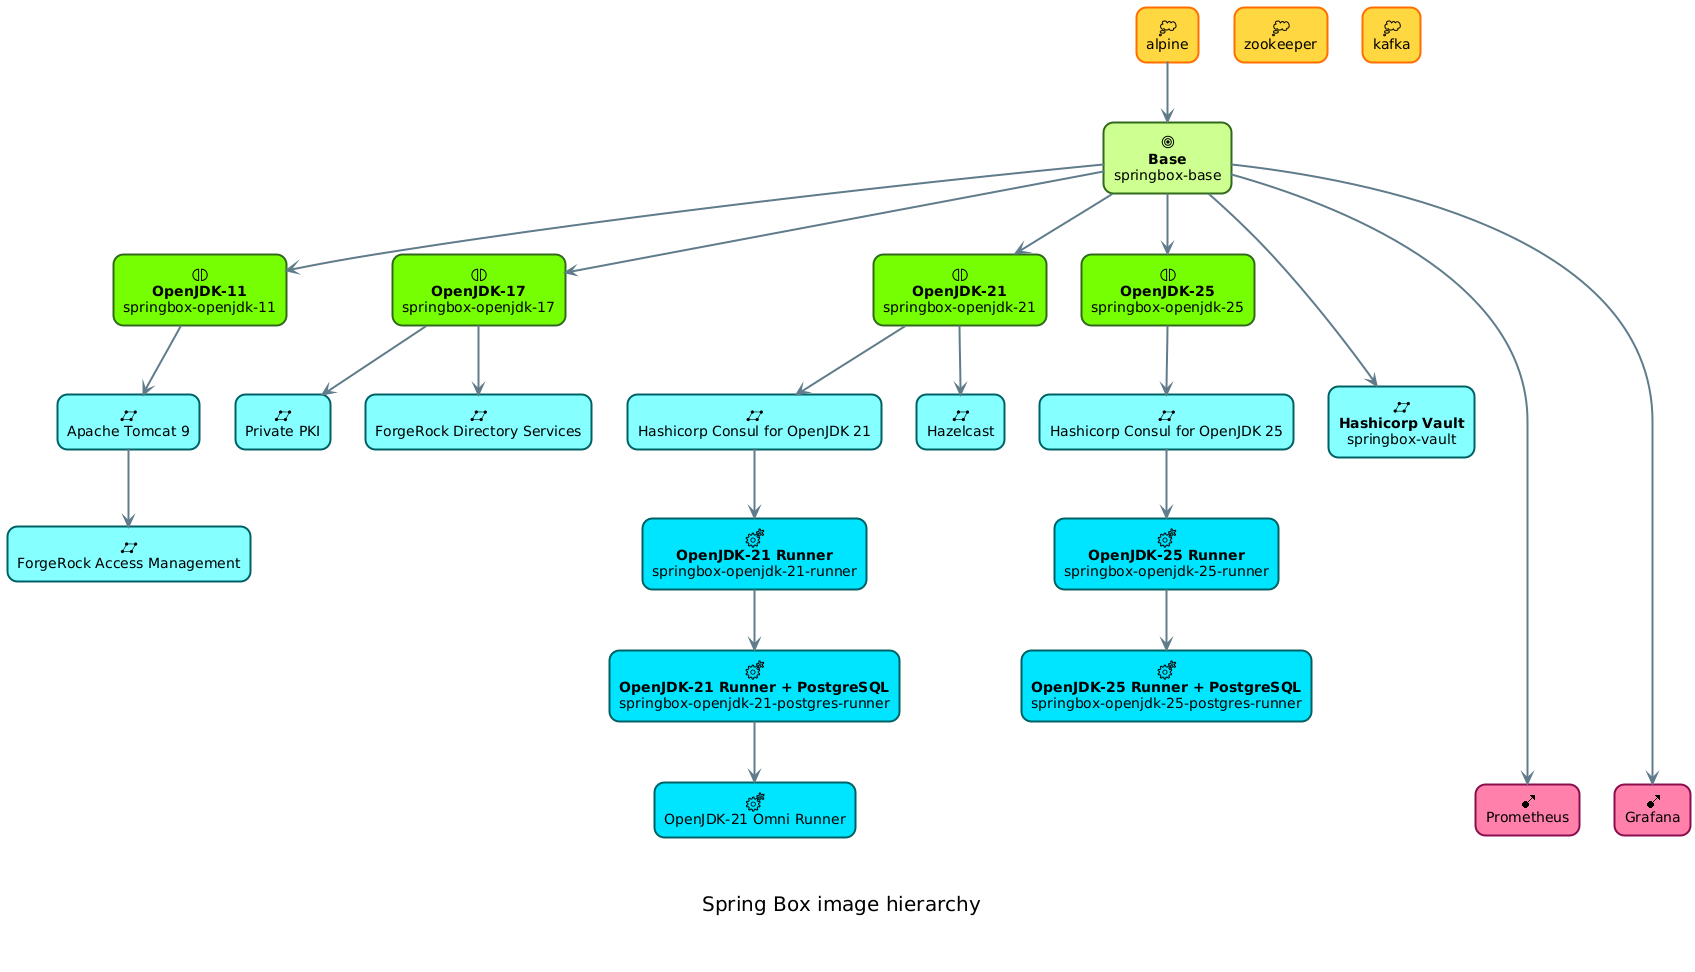
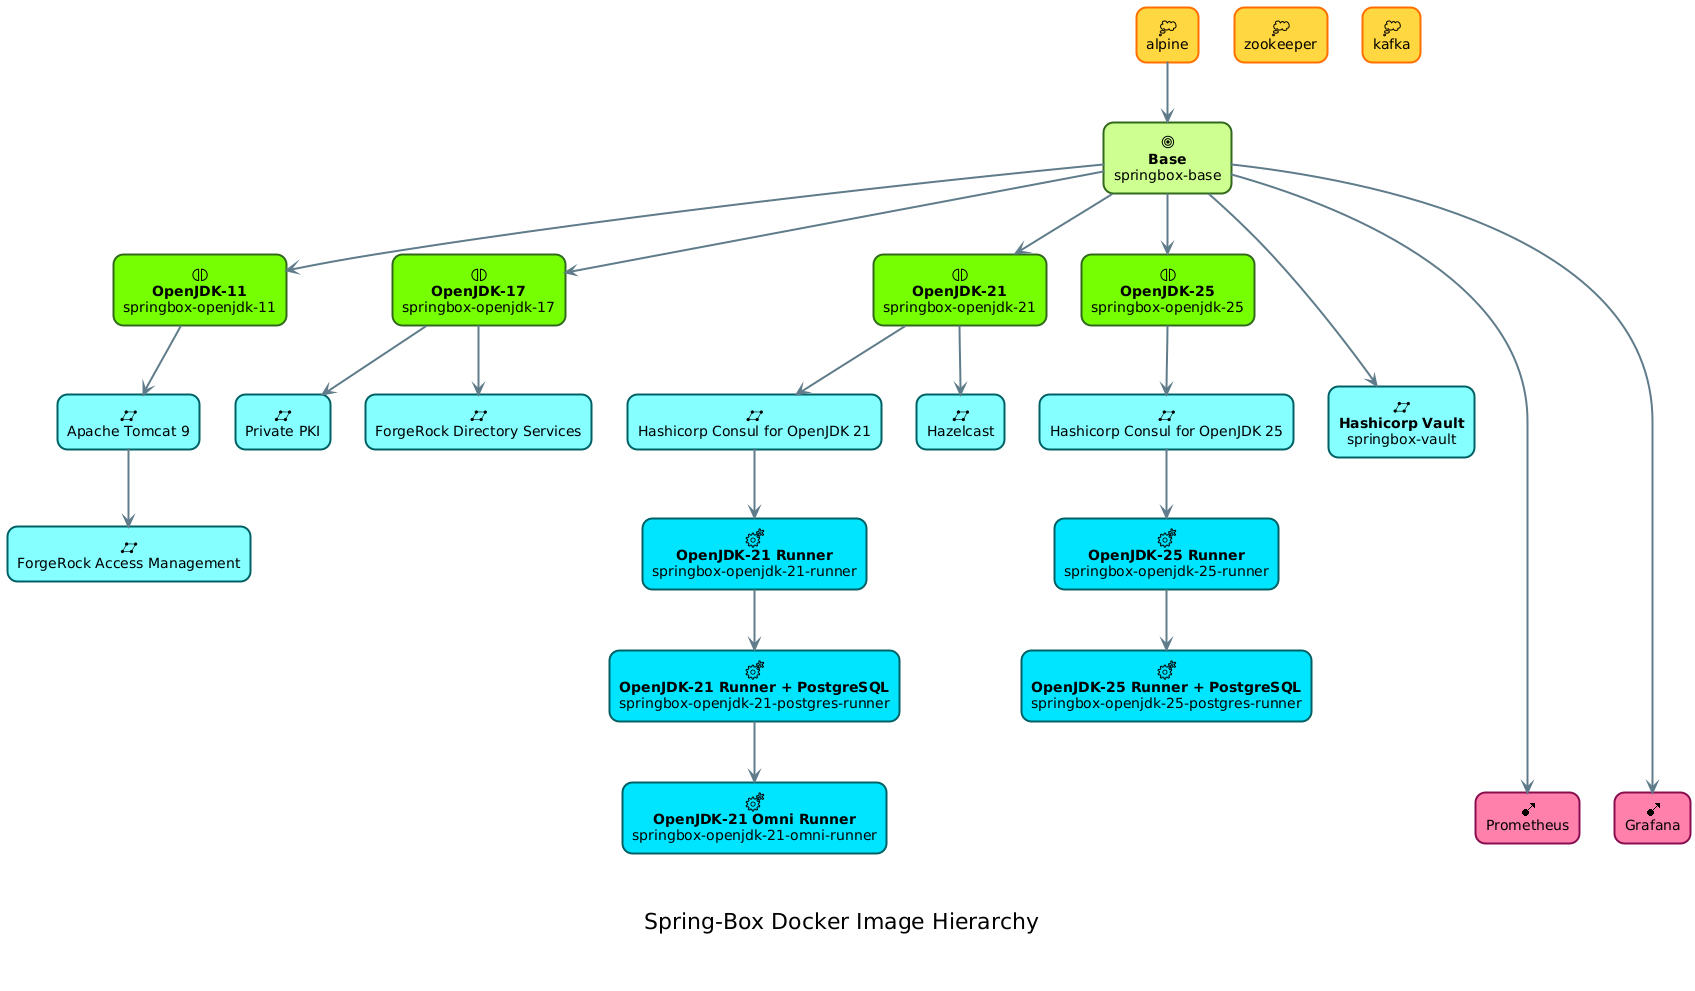
update Spring-Box documentation

diff --git a/docs/_pages/virtualization/docker/spring-box.md b/docs/_pages/virtualization/docker/spring-box.md
@@ -9,7 +9,7 @@ sidebar:
   nav: "virtualization_sidebar"
 ---
 
-## ☁ Spring Box: the ultimate Spring Boot runner
+## ☁ Spring-Box: Ultimate Spring Boot Runner
 
 ![GitHub top language](https://img.shields.io/github/languages/top/zappee/spring-box)
 ![GitHub Issues](https://img.shields.io/github/issues/zappee/spring-box)
@@ -28,10 +28,10 @@ sidebar:
 ---
 
 ### 1) Overview
-The **Remal Spring Box** is an open-source development and production platform engineered to simplify the creation, deployment, and monitoring of Java and Spring Boot applications.
+The **Remal Spring-Box** is an open-source development and production platform engineered to simplify the creation, deployment, and monitoring of Java and Spring Boot applications.
 It eliminates enterprise boilerplate by offering a fully integrated environment featuring containerized runtimes, databases supporting the database-per-service pattern, data streaming, service discovery, security, and real-time operational metrics.
 
-### 2) Context & Problem statement
+### 2) Context & Problem Statement
 Building a modern microservices architecture with Spring Boot requires stitching together dozens of complex infrastructure components:
 * Service registries
 * Load balancers
@@ -55,14 +55,14 @@ Setting this up consistently across local development and production environment
 * **Distributed state challenges:** The complexity of managing databases using the popular database-per-service pattern while keeping primary keys synchronized across isolated instances.
 * **"Works on my machine" dilemma:** Environmental gaps between team members' laptops and live clusters that turn environment debugging into a massive time sink.
 
-### 3) The Remal solution
-That’s where the **Remal Spring Box** comes in.
+### 3) The Remal Solution
+That’s where the **Remal Spring-Box** comes in.
 It bridges this gap by offering a containerized pre-configured set of _Docker_ images that act as ready-to-go building blocks for both local development and production environment.
 
 By abstracting away complex infrastructure, it cuts out configuration overhead entirely.
 This lets start-ups and small-to-medium teams to eliminate configuration overhead, stop worrying about setup, and focus on what matters most: shipping features fast.
 
-### 4) Key benefits
+### 4) Key Benefits
 * **Embedded SSH server:** Offers standard secure access to active instances. Running containers can be connected to using native SSH clients, allowing to execute standard shell commands inside the container environments seamlessly.
 * **Production-Identical local dev:** Eliminates environmental mismatches entirely. By using the exact same containerized runtime building blocks on local machines and production clusters, if it works on your laptop, it will work in production.
 * **Instant feature delivery:** Saves weeks of foundational engineering. Startups and small teams can skip the tedious process of configuring Kafka brokers, security certificates, service registries, cache solutions, etc., and start writing business logic on day one.
@@ -71,18 +71,18 @@ This lets start-ups and small-to-medium teams to eliminate configuration overhea
 * **Architecture evolution:** Designed for zero-downtime scalability. The platform’s modular nature allows you to easily scale services horizontally or vertically, or swap out infrastructure components entirely as your application traffic and business needs grow.
 * **Configuration management:** The integrated _Distributed Key-Value Registry_ acts as a single source of truth for runtime configurations, making it effortless to manage environment states and synchronize changes across all active instances.
 * **Automated load balancing:** The _Distributed Service Registry_ tracks active microservice instances codelessly, dynamically routing traffic and balancing loads across healthy containers without manual network mapping.
-* **Distributed Caching:** The built-in, cluster-wide Hazelcast-based distributed cache solution offered by _Spring Box_ simplifies the implementation of lightning-fast REST services. It can be used to maintain a persistent request context across separate instances. You can significantly reduce database load by utilizing different caching strategies. By pairing _Spring Box_ with the _Bucket4j_ library, you can easily implement robust, multi-instance, IP-based rate limiting (throttling) and circuit breakers to protect your API endpoints against DDoS attacks.
+* **Distributed Caching:** The built-in, cluster-wide Hazelcast-based distributed cache solution offered by _Spring-Box_ simplifies the implementation of lightning-fast REST services. It can be used to maintain a persistent request context across separate instances. You can significantly reduce database load by utilizing different caching strategies. By pairing _Spring-Box_ with the _Bucket4j_ library, you can easily implement robust, multi-instance, IP-based rate limiting (throttling) and circuit breakers to protect your API endpoints against DDoS attacks.
   The Hazelcast-based architecture supports three different caching mechanisms: _Embedded Cache_, _Client-Server topology_, and _Near-Cache_:
 
   ![Supported caching architectures](/assets/images/menu/virtualization/docker/spring-box/hazelcast-caching-strategies.png)
 
-### 5) Docker containers in the _Spring Box_ ecosystem
-![Spring Box image hierarchy](/assets/images/menu/virtualization/docker/spring-box/spring-box-image-hierarchy.png)
+### 5) Docker Containers in the _Spring-Box_ Ecosystem
+![Spring-Box image hierarchy](/assets/images/menu/virtualization/docker/spring-box/spring-box-image-hierarchy.png)
 
-### 6) The Base image
+### 6) The Spring-Box Base Image
 Image name: springbox-base
 
-This ultra-minimal [Base image](https://github.com/zappee/spring-box/tree/main/docker/base/base) serves as the foundation for the entire **Remal Spring Box** ecosystem.
+This ultra-minimal [Base image](https://github.com/zappee/spring-box/tree/main/docker/base/base) serves as the foundation for the entire **Remal Spring-Box** ecosystem.
 It contains only essential system utilities and bootstrap configurations.
 
 * System & Access Utilities:
@@ -96,7 +96,7 @@ It contains only essential system utilities and bootstrap configurations.
   * `docker.init` and `docker.startup` directory preparation.
 
 We keep this layer footprint as small as possible.
-This serves as the parent layer for all subsequent images in the ecosystem. Any package or file added here will cascade down the entire stack, unnecessarily increasing the final size of the production _Spring Box_ images.
+This serves as the parent layer for all subsequent images in the ecosystem. Any package or file added here will cascade down the entire stack, unnecessarily increasing the final size of the production _Spring-Box_ images.
 
 ⚠ _**Important:**_
 _Modifying this layer directly impacts every image downstream in the ecosystem._
@@ -128,13 +128,13 @@ _Please modify it with caution and only introduce changes that are globally requ
   ```
 
 #### 6.3) Container lifecycle management
-  The `/docker.init/` and `/docker.startup/` directories manage the lifecycle of all _Spring Box_ containers.
+  The `/docker.init/` and `/docker.startup/` directories manage the lifecycle of all _Spring-Box_ containers.
   Using the Linux [`run-parts` tool](https://www.unix.com/man_page/linux/8/run-parts/), the container executes initialization and startup scripts sequentially without hardcoded filenames.
   While downstream layers can easily extend container behavior by adding new scripts, place files carefully to avoid filename conflicts or accidental overrides.
   * **Initialization:** Scripts in `docker.init` directory run only _ONCE_ during the container's very first boot. They will be skipped on subsequent container restarts.
   * **Startup logic:** Scripts in `docker.startup` directory run _EVERY_ time the container starts up, including after restarts and reboots.
 
-### 7) Java core runtime images
+### 7) Java Core Runtime Images
 Image name: springbox-openjdk
 
 The platform supports production-ready runtimes for [OpenJDK 11, 17, 21, and 25](https://github.com/zappee/spring-box/tree/main/docker/core).
@@ -143,10 +143,10 @@ This Docker image layer only adds
 * OpenSSL to deal with keystores
 
 ⚠ _**Important:**_
-_These core images are designed to serve as top layers for custom builds and are not recommended for running Java applications (*.jar) directly._
+_These core images are designed to serve as top layer for custom builds and are not recommended for running Java applications (*.jar) directly._
 _To deploy and execute your Java applications, we highly recommend using our specialized [Java Runner](#8-java-runner-containers---springbox-openjdk-runner) containers._
 
-### 8) Java Runner containers
+### 8) Java Runner Images
 Image name: springbox-openjdk-runner
 
 The **Java Runner** is an optimized Docker image designed specifically for running containerized Java applications, particularly **Spring Boot** executable JAR files.
@@ -237,7 +237,7 @@ hello-service-1:
   These configuration keys are injected directly into the container's runtime environment, becoming active shell variables inside the container so that your application (such as Spring Boot) can seamlessly read them.
 
   Variables utilized by this image:
-  * **PKI_HOST** (default: pki.remal.com): Specifies the hostname of the _Private PKI Management_ container within the _Spring Box_ network.
+  * **PKI_HOST** (default: pki.remal.com): Specifies the hostname of the _Private PKI Management_ container within the _Spring-Box_ network.
   * **CONSUL_SERVER_HOSTNAME** (default: consul.remal.com): Defines the hostname of the _HashiCorp Consul_ container inside the platform.
   * **HAZELCAST_CLUSTER_NAME** (default: springbox-dev): Specifies the unique identifier for the distributed Hazelcast cluster topology. This variable allows the container to seamlessly discover, authenticate, and join the correct cluster network. When deploying multi-tenant environments or multiple independent clusters within the same infrastructure, ensure this name matches across all desired cluster members to prevent accidental node isolation or split-brain scenarios.
   * **HAZELCAST_CLUSTER_MEMBERS** (default: hazelcast-1.remal.com, hazelcast-2.remal.com): Defines a comma-separated list of IP addresses or hostnames (with optional ports) representing the cluster members used for initial discovery. The container utilizes this list to bootstrap its connection to the distributed Hazelcast network.
@@ -258,17 +258,17 @@ hello-service-1:
   The container memory limits defined here must align precisely with the internal JVM configurations.
 * **Docker volume configuration:**
   Docker volumes store persistent data outside a container’s writable disk, ensuring data remains intact even after the container is removed.
-  _Spring Box_ uses three Docker volumes to share files between the host machine and the container.
+  _Spring-Box_ uses three Docker volumes to share files between the host machine and the container.
 
-  * **/jar-to-run:** Host to container, input. The executable Java application `.jar` file must be placed in this folder to be passed into the container for execution. This folder must contain exactly one `.jar` file, as each individual Java container in the _Spring Box_ ecosystem is designed to execute a single application.
+  * **/jar-to-run:** Host to container, input. The executable Java application `.jar` file must be placed in this folder to be passed into the container for execution. This folder must contain exactly one `.jar` file, as each individual Java container in the _Spring-Box_ ecosystem is designed to execute a single application.
   - **/logs:** Container to host, output. Application and server log files generated by the active processes inside the container are streamed out the host machine via this shared folder.
   - **/heap-dump:** Container to host, output. This is the place where the JVM outputs binary memory snapshots upon a critical failure.
 
-### 9) Java runtime with PostgreSQL images
+### 9) Java Runtime with PostgreSQL Images
 Image name: springbox-openjdk-postgres-runner
 
-This image is an extends of our base [Java Runner containers](#8-java-runner-containers---springbox-openjdk-runner) layers by adding a pre-installed, and ready-to-use PostgreSQL database server on top of that image.
-While everything detailed in the _Java Runner containers_ section applies to this image as well, this image requires a few extra configuration steps to operate the embedded database engine.
+This image is an extends of our base [Java Runner images](#8-java-runner-containers---springbox-openjdk-runner) layer by adding a pre-installed, and ready-to-use PostgreSQL database server on top of that image.
+While everything detailed in the _Java Runner images_ section applies to this image as well, this image requires a few extra configuration steps to operate the embedded database engine.
 
 It is recommended to usie this image if your application requires a dedicated database and follows a _database-per-container_ or _database-per-service_ design pattern.
 
@@ -343,22 +343,27 @@ hello-service-1:
   * **DB_APP_PASSWORD** (default: password): Specifies the password used by the application layer to authenticate against the database.
 * **Docker volume configuration:**
   Docker volumes store persistent data outside a container’s writable disk, ensuring data remains intact even after the container is removed.
-  _Spring Box_ uses three Docker volumes to share files between the host machine and the container.
+  _Spring-Box_ uses three Docker volumes to share files between the host machine and the container.
 
   * **/var/lib/postgresql/data:** Maps the standard, internal directory where PostgreSQL expects to write its data, tables, and system catalogs. It guarantees your PostgreSQL data persists even if the container is stopped, deleted, or upgraded.
 
-### 10) Java Omni runtime images
+### 10) Java Omni Runtime Image
 Image name: springbox-openjdk-omni-runner
 
-Ultimate rubber.
+This ultimate Omni image extends our [Java Runner with PostgreSQL image](#9-java-runtime-with-postgresql-images).
+It is our largest _Java Runner_ image, packed with additional tools and Linux packages required by specialized Java applications.
 
-### 11) HashiCorp Consul integration image
+#### 10.1) Features
+* **fonts-dejavu Linux package:** This is a system-level TrueType fonts (.ttf) required by Java graphics engines, reporting libraries (e.g., JasperReports), and PDF/Excel/Word generators (e.g., Apache POI) to render text correctly without crashing.
+  If your containerized Java app tries to generate a chart, Excel sheet, or PDF without these fonts installed in the OS layer, it will crash with a `NullPointerException` or an `AWTError` stating that it cannot instantiate the font manager.
+
+### 11) HashiCorp Consul Integration
 Image name: springbox-consul-for-openjdk
 
 Distributed service registry and key-value store based on HashiCorp Consul.
 Cluster wide
 
-### 12) Hazelcast cache platform image
+### 12) Hazelcast Cache Platform
 Image name: springbox-hazelcast
 
 to support _Embedded-Cache_, _Client-Server Cache_, and  _Near-Cache_ topologies with zero configuration.
@@ -368,14 +373,14 @@ Image name: springbox-private-ca
 
 to issue and revoke server and encryption keys using _OpenVPN_ and _EasyRSA_.
 
-### 14) Apache Tomcat 10
+### 14) Apache Tomcat 10 Image
 
-### 15) Prometheus time-series database server
+### 15) Prometheus Time-Series Database Server
 containers and data scraper container** that periodically pulls (scrapes) the formatted metric data from Micrometer and stores it securely, allowing you to run complex queries against your historical application performance data.
 
 ### 16) Grafana
 
-### 17) LDAP server
+### 17) LDAP Server
 
 ### 20) Source core
 

diff --git a/docs/_pages/virtualization.md b/docs/_pages/virtualization.md
@@ -18,6 +18,6 @@ To solve this, the projects hosted here focus on packaging complex server archit
 Whether you need to spin up standard container clusters, deploy Java microservices, or execute legacy enterprise servers locally, these tools deliver reproducible environments that run seamlessly right out of the box.
 
 #### Explore the ecosystem:
-- **Java Box:** A lightweight Java runtime environment designed to execute compiled JAR files instantly.
-- **Spring Box:** A pre-configured development stack built for rapid Spring Boot engineering. It bundles the Java runtime, supports a _Database-per-Container_ deployment pattern, and includes built-in _Prometheus_ monitoring with real-time tracking. Additionally, it features an integrated PKI server to dynamically issue and revoke server keys, enabling secure, encrypted HTTPS communication between containers right out of the box. Suitable for both development and production environments.
-- **WebLogic Box:** A completely isolated environment designed to deploy and test Java EE applications on Oracle WebLogic without complex, manual server installations.
+- **Java-Box:** A lightweight Java runtime environment designed to execute compiled JAR files instantly.
+- **Spring-Box:** A pre-configured development stack built for rapid Spring Boot engineering. It bundles the Java runtime, supports a _Database-per-Container_ deployment pattern, and includes built-in _Prometheus_ monitoring with real-time tracking. Additionally, it features an integrated PKI server to dynamically issue and revoke server keys, enabling secure, encrypted HTTPS communication between containers right out of the box. Suitable for both development and production environments.
+- **WebLogic-Box:** A completely isolated environment designed to deploy and test Java EE applications on Oracle WebLogic without complex, manual server installations.

diff --git a/docs/_pages/virtualization/docker/oracle-weblogic-box.md b/docs/_pages/virtualization/docker/oracle-weblogic-box.md
@@ -21,7 +21,7 @@ sidebar:
 
 ### 1) Overview
 
-**WebLogic Box** is a pre-configured, isolated runtime environment designed to simplify Java EE application deployment on Oracle WebLogic Server without requiring complex local installations.
+**WebLogic-Box** is a pre-configured, isolated runtime environment designed to simplify Java EE application deployment on Oracle WebLogic Server without requiring complex local installations.
 It eliminates manual configuration bottlenecks by packaging the server environment inside a reproducible container blueprint.
 
 
@@ -30,7 +30,7 @@ It eliminates manual configuration bottlenecks by packaging the server environme
 In today’s software development landscape, teams heavily favor lightweight, cloud-native frameworks like **Spring Boot** over traditional Java EE application servers.
 However, large enterprise environments (especially within the financial, governmental, and corporate sectors) still rely extensively on **Oracle WebLogic Server** to run core, business-critical applications.
 
-The primary objective of **WebLogic Box** is not merely to build a legacy runtime environment, but to serve as a reference architecture.
+The primary objective of **WebLogic-Box** is not merely to build a legacy runtime environment, but to serve as a reference architecture.
 While the framework itself belongs to an older generation of technology, the containerization mechanisms engineered into these images are entirely **timeless and framework-agnostic**.
 
 The architectural design and automation scripting can be directly applied to modern stacks (including Spring Boot) to solve complex container orchestration challenges.

diff --git a/docs/_pages/virtualization/docker/java-box.md b/docs/_pages/virtualization/docker/java-box.md
@@ -9,7 +9,7 @@ sidebar:
   nav: "virtualization_sidebar"
 ---
 
-## ☁ Java Box: the ultimate Spring Boot runner
+## ☁ Java-Box: the ultimate Spring Boot runner
 
 ![GitHub top language](https://img.shields.io/github/languages/top/zappee/spring-box)
 ![GitHub Issues](https://img.shields.io/github/issues/zappee/spring-box)
@@ -21,11 +21,11 @@ sidebar:
 
 ### 1) Overview
 
-The Remal **Java Box** is an open-source development and production platform engineered to simplify the creation, deployment, and monitoring of Java and Spring Boot applications.
+The Remal **Java-Box** is an open-source development and production platform engineered to simplify the creation, deployment, and monitoring of Java and Spring Boot applications.
 
 ### 2) Documentation
 
-For complete implementation details and guides, visit the [Spring Box](/virtualization/docker/spring-box/) documentation.
+For complete implementation details and guides, visit the [Spring-Box](/virtualization/docker/spring-box/) documentation.
 
 ### 3) Source core
 
